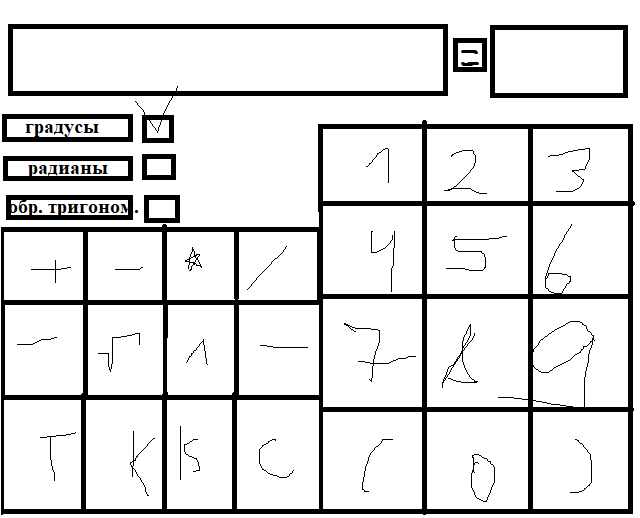
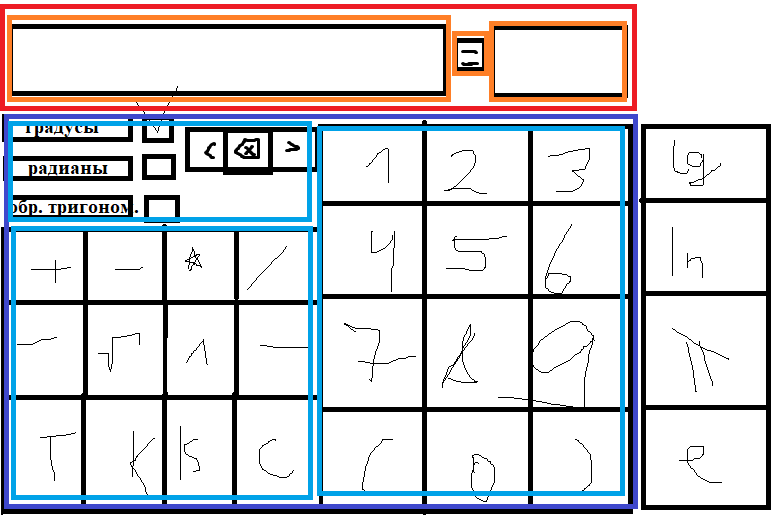
button listener added. Not done yet

Changed region(s): [[0.0, 0.0, 1.0, 1.0], [0.875, 0.6486, 0.9375, 0.7413], [0.875, 0.8649, 0.9062, 0.8958]]

diff --git a/src/MainWindow.java b/src/MainWindow.java
@@ -1,5 +1,6 @@
 import javax.swing.*;
 import java.awt.*;
+import java.awt.event.ActionListener;
 
 public class MainWindow {
     private int windowHeight;
@@ -29,20 +30,22 @@ public class MainWindow {
             main.setLayout(mainLayout);
 
         JPanel top = new JPanel();
-            top.setLayout(new GridLayout(1,2,0,0));
-            JButton[] topButtons = new JButton[2];
-            for(int i = 0; i < 2; i++) {
-                topButtons[i] = new JButton("TOP" + i);
-                top.add(topButtons[i]);
-            }
+            top.setLayout(new GridLayout(1,2,0,10));
+            JTextField equationField = new JTextField(10);
+            JTextField equationField1 = new JTextField(10);
+            top.add(equationField);
+            top.add(equationField1);
+            equationField.setFont(new Font("Arial", 0 , 70));
 
         JPanel half = new JPanel();
             half.setLayout(new GridLayout(1,2,0,0));
             JButton[] halfButtons = new JButton[2];
-            for(int i = 0; i < 2; i++) {
-                halfButtons[i] = new JButton("HALF" + i);
-                half.add(halfButtons[i]);
-            }
+            halfButtons[0] = new JButton("<-");
+            halfButtons[0].setActionCommand("goToLeft");
+            halfButtons[1] = new JButton("->");
+            halfButtons[1].setActionCommand("goToRight");
+            half.add(halfButtons[0]);
+            half.add(halfButtons[1]);
 
         JPanel medium = new JPanel();
             medium.setLayout(new GridLayout(2,8,0,0));
@@ -64,11 +67,16 @@ public class MainWindow {
                 bottomButtons[i] = new JButton("BOTTOM" + i);
                 bottom.add(bottomButtons[i]);
             }
-
+        ActionListener buttonListener = new ButtonsListener();
+        halfButtons[0].addActionListener(buttonListener);
+        halfButtons[1].addActionListener(buttonListener);
         main.add(top);
         main.add(medium);
         main.add(bottom);
         frame.getContentPane().add(main);
         frame.setVisible(true);
     }
+
+
+
 }

diff --git a/src/ButtonsListener.java b/src/ButtonsListener.java
@@ -1,0 +1,19 @@
+import java.awt.event.ActionEvent;
+import java.awt.event.ActionListener;
+
+public class ButtonsListener implements ActionListener {
+    private CalculationMachine calc = new CalculationMachine();
+    private String equation = new String();
+    @Override
+    public void actionPerformed(ActionEvent e) {
+        String command = e.getActionCommand();
+        switch (command) {
+            case "goToLeft":
+                System.out.println("eeeeeeeeeeeeeee");
+                break;
+            case "=":
+                calc.setEquation(equation);
+
+        }
+    }
+}

diff --git a/src/Main.java b/src/Main.java
@@ -9,4 +9,7 @@ public class Main {
         mainWindow.createInterface();
 
     }
+
+
+
 }
